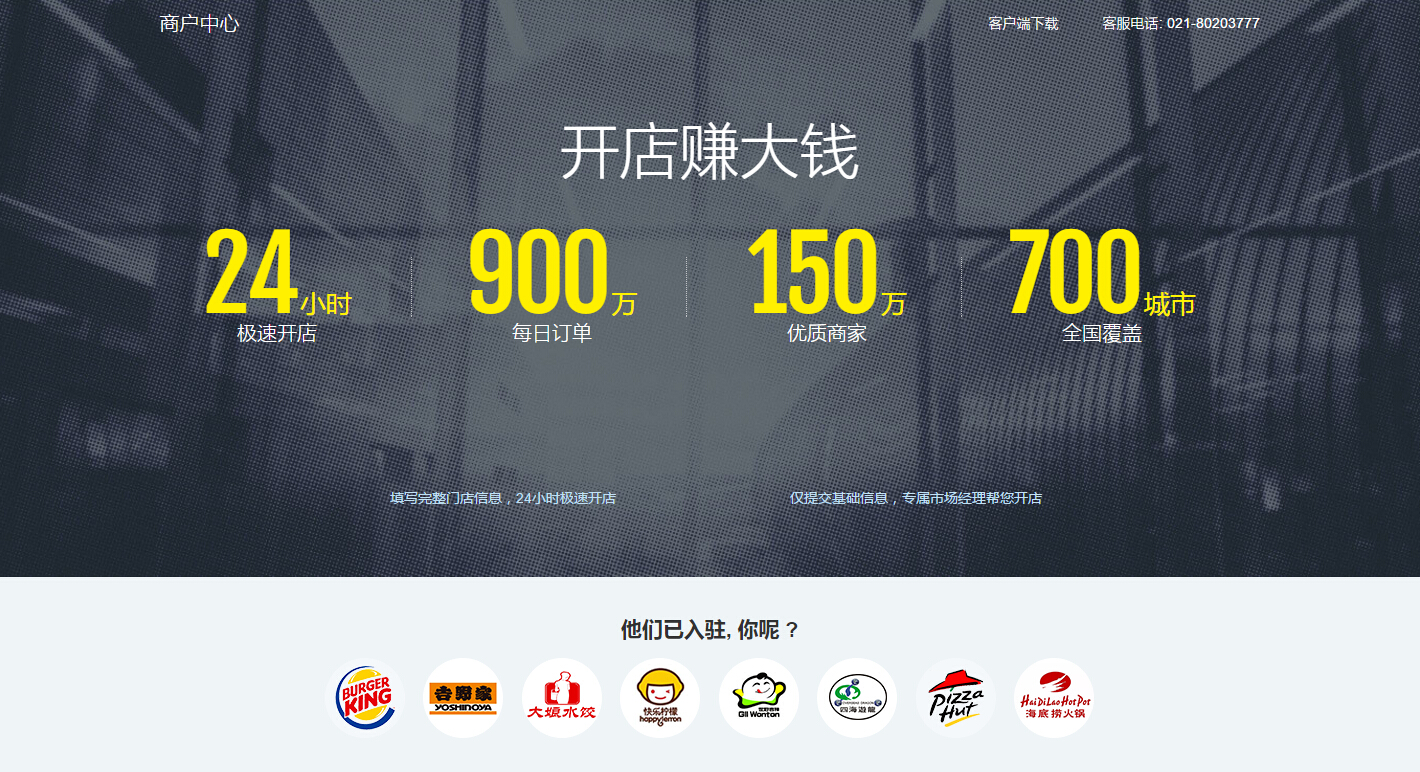
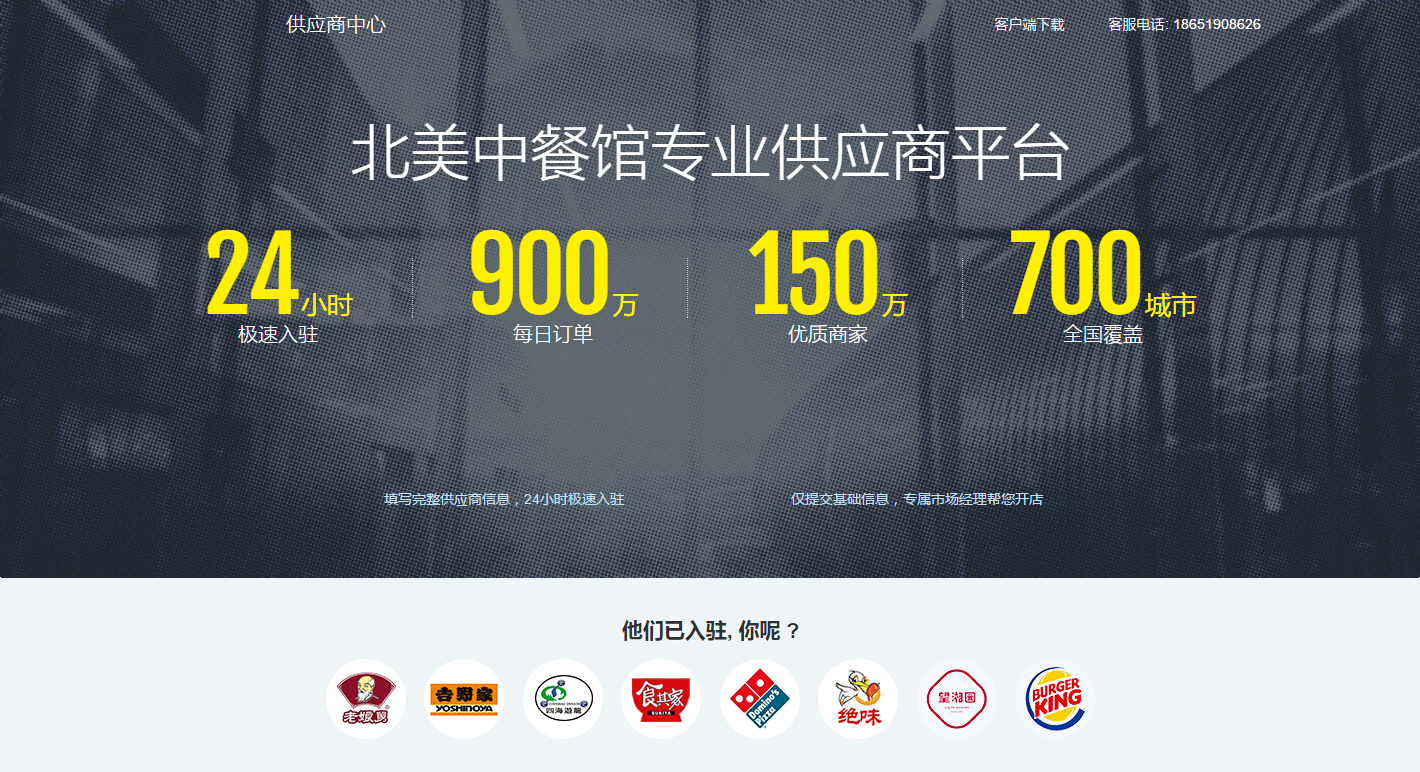
更新

diff --git a/SupplierApply/src/components/component/store/store1.vue b/SupplierApply/src/components/component/store/store1.vue
@@ -1,21 +1,21 @@
 <template>
   <el-form :model="ruleForm" :rules="rules" ref="ruleForm" label-width="150px" class="demo-ruleForm">
-    <el-form-item label="门店绑定手机号：">
+    <el-form-item label="供应商绑定手机号：">
       18651908626
     </el-form-item>
-    <el-form-item label="门店名称" prop="storename">
+    <el-form-item label="供应商名称" prop="storename">
       <el-input style="width:350px;" v-model="ruleForm.storename"></el-input>
     </el-form-item>
-    <el-form-item label="外卖电话" prop="phone">
+    <el-form-item label="电话" prop="phone">
       <el-input style="width:220px;" v-model="ruleForm.phone"></el-input>
     </el-form-item>
     <el-form-item label="联系人名称" prop="name">
       <el-input style="width:220px;" v-model="ruleForm.name"></el-input>
     </el-form-item>
-    <el-form-item label="门店分类" prop="storetype">
-      <el-select v-model="ruleForm.storetype" placeholder="请选择活动区域">
-        <el-option label="区域一" value="shanghai"></el-option>
-        <el-option label="区域二" value="beijing"></el-option>
+    <el-form-item label="供应商分类" prop="storetype">
+      <el-select v-model="ruleForm.storetype" placeholder="请选择供应商分类">
+        <el-option label="生鲜" value="shanghai"></el-option>
+        <el-option label="调料" value="beijing"></el-option>
       </el-select>
     </el-form-item>
     <el-form-item label="营业时间" prop="time">
@@ -34,7 +34,7 @@
         <img src="../../../assets/store_map.jpg" alt="">
       </div>
     </el-form-item>
-    <el-form-item label="门店照片" prop="storepic">
+    <el-form-item label="供应商照片" prop="storepic">
       <div>
         <div class="storepic">
           <img src="../../../assets/store_pic.jpg" alt="">
@@ -50,7 +50,7 @@
         </div>
       </div>
     </el-form-item>
-    <el-form-item label="门店Logo" prop="storelogo">
+    <el-form-item label="供应商Logo" prop="storelogo">
       <div>
         <div>
           <img src="../../../assets/store_logo.jpg" alt="">
@@ -79,7 +79,7 @@
         },
         rules: {
           storename: [
-            { required: true, message: '请输入门店名称', trigger: 'blur' },
+            { required: true, message: '请输入供应商名称', trigger: 'blur' },
             { min: 2, max: 20, message: '长度在 2 到 20 个字符', trigger: 'blur' }
           ],
           phone: [
@@ -103,10 +103,10 @@
             { required: true, message: '请输入详细地址', trigger: 'change' }
           ],
           storepic: [
-            { required: true, message: '请上传门店照片', trigger: 'change' }
+            { required: true, message: '请上传供应商照片', trigger: 'change' }
           ],
           storelogo: [
-            { required: true, message: '请上传门店Logo', trigger: 'change' }
+            { required: true, message: '请上传供应商Logo', trigger: 'change' }
           ]
         }
       };

diff --git a/SupplierApply/src/components/Store-guid.vue b/SupplierApply/src/components/Store-guid.vue
@@ -3,7 +3,7 @@
     <el-row class="header">
       <div class="content">
         <el-col :span="20" class="txt">
-        开店申请
+        入驻供应商平台申请
         </el-col>
         <el-col :span="4" class="userinfo">
           <el-dropdown trigger="click">
@@ -17,14 +17,14 @@
       </div>
     </el-row>
     <div class="breadcrumb">
-      请准备号以下材料，申请开店更方便
+      请准备号以下材料，申请入驻更方便
     </div>
     <div class="content">
     	<el-card class="box-card">
       <img src="../assets/store_guid.jpg" alt="">
       </el-card>
       <div class="btn-box" >
-        <el-button class="btn-next" type="primary" @click="next">我已经准备好资料，进行开店申请</el-button>
+        <el-button class="btn-next" type="primary" @click="next">我已经准备好资料，进行入驻供应商平台申请</el-button>
       </div>
     </div>
   </div>
@@ -140,7 +140,7 @@
       }
       .btn-next {
         height: 50px;
-        width: 318px;
+        width: 350px;
         font-size:16px;
       }
     }

diff --git a/SupplierApply/src/components/Store-apply.vue b/SupplierApply/src/components/Store-apply.vue
@@ -3,7 +3,7 @@
     <el-row class="header">
       <div class="content">
         <el-col :span="20" class="txt">
-        开店申请
+        入驻供应商平台申请
         </el-col>
         <el-col :span="4" class="userinfo">
           <el-dropdown trigger="click">
@@ -22,7 +22,7 @@
     	:active="active" 
     	:center="true"
     	finish-status="success">
-		  <el-step title="门店信息"></el-step>
+		  <el-step title="供应商信息"></el-step>
 		  <el-step title="资质信息"></el-step>
 		  <el-step title="合作方案"></el-step>
 		  <el-step title="配送方案"></el-step>
@@ -92,7 +92,7 @@ const componentsArr = [
       },
       next() {
         if (this.active === 5) {
-          this.btn_name="提交并申请开店"
+          this.btn_name="提交并申请入驻供应商平台"
         }
         if (++this.active >= 7) {
           this.$router.push('/recordlist');

diff --git a/SupplierApply/src/components/component/record/record-complete.vue b/SupplierApply/src/components/component/record/record-complete.vue
@@ -4,7 +4,7 @@
     border
     style="width: 100%">
     <el-table-column
-      label="门店名称"
+      label="供应商名称"
       width="150">
       <template scope="scope">
         <span style="margin-left: 10px">{{ scope.row.m_name }}</span>
@@ -23,7 +23,7 @@
       <template scope="scope">
         <el-popover trigger="hover" placement="top">
           <p>姓名: {{ scope.row.name }}</p>
-          <p>门店地址: {{ scope.row.address }}</p>
+          <p>供应商地址: {{ scope.row.address }}</p>
           <div slot="reference" class="name-wrapper">
             <el-tag>{{ scope.row.name }}</el-tag>
           </div>
@@ -70,7 +70,7 @@
     data() {
       return {
         tableData: [{
-          m_name: '茶壶店',
+          m_name: '生鲜食材',
           id: '10468',
           name: '程浩',
           phone: '18651908626',

diff --git a/SupplierApply/src/components/component/record/record-modify.vue b/SupplierApply/src/components/component/record/record-modify.vue
@@ -4,7 +4,7 @@
     border
     style="width: 100%">
     <el-table-column
-      label="门店名称"
+      label="供应商名称"
       width="150">
       <template scope="scope">
         <span style="margin-left: 10px">{{ scope.row.m_name }}</span>
@@ -23,7 +23,7 @@
       <template scope="scope">
         <el-popover trigger="hover" placement="top">
           <p>姓名: {{ scope.row.name }}</p>
-          <p>门店地址: {{ scope.row.address }}</p>
+          <p>供应商地址: {{ scope.row.address }}</p>
           <div slot="reference" class="name-wrapper">
             <el-tag>{{ scope.row.name }}</el-tag>
           </div>
@@ -70,7 +70,7 @@
     data() {
       return {
         tableData: [{
-          m_name: '茶壶店',
+          m_name: '生鲜食材',
           id: '10468',
           name: '程浩',
           phone: '18651908626',

diff --git a/SupplierApply/src/components/component/record/record-pass.vue b/SupplierApply/src/components/component/record/record-pass.vue
@@ -4,7 +4,7 @@
     border
     style="width: 100%">
     <el-table-column
-      label="门店名称"
+      label="供应商名称"
       width="150">
       <template scope="scope">
         <span style="margin-left: 10px">{{ scope.row.m_name }}</span>
@@ -23,7 +23,7 @@
       <template scope="scope">
         <el-popover trigger="hover" placement="top">
           <p>姓名: {{ scope.row.name }}</p>
-          <p>门店地址: {{ scope.row.address }}</p>
+          <p>供应商地址: {{ scope.row.address }}</p>
           <div slot="reference" class="name-wrapper">
             <el-tag>{{ scope.row.name }}</el-tag>
           </div>
@@ -70,7 +70,7 @@
     data() {
       return {
         tableData: [{
-          m_name: '茶壶店',
+          m_name: '生鲜食材',
           id: '10468',
           name: '程浩',
           phone: '18651908626',

diff --git a/SupplierApply/src/components/Index.vue b/SupplierApply/src/components/Index.vue
@@ -2,8 +2,8 @@
   <div>
     <img src="../assets/bg.jpg" alt="">
     <div class="page_info">
-        <el-button class="kd" type="primary" @click="dialogFormVisible = true">自助开店</el-button>
-        <el-button class="bwkd" type="primary" @click="dialogFormVisible = true">帮我开店</el-button>
+        <el-button class="kd" type="primary" @click="dialogFormVisible = true">自助入驻</el-button>
+        <el-button class="bwkd" type="primary" @click="dialogFormVisible = true">帮我入驻</el-button>
     </div>
     <el-dialog title="申请入驻" :visible.sync="dialogFormVisible" size="tiny">
         <el-form :model="ruleForm2" :rules="rules2" ref="ruleForm2" label-position="left" label-width="0px" class="demo-ruleForm login-container">

diff --git a/SupplierApply/src/components/Record-list.vue b/SupplierApply/src/components/Record-list.vue
@@ -3,7 +3,7 @@
     <el-row class="header">
       <div class="content">
         <el-col :span="20" class="txt">
-        开店申请
+        入驻供应商平台申请
         </el-col>
         <el-col :span="4" class="userinfo">
           <el-dropdown trigger="click">
@@ -24,7 +24,7 @@
     </div>
     <div class="content">
       <el-card class="box-card">
-        <el-button class="sqkd" type="primary" @click="openstore">申请开店</el-button>
+        <el-button class="sqkd" type="primary" @click="openstore">申请入驻供应商平台</el-button>
         <el-tabs v-model="activeName" @tab-click="handleClick">
           <el-tab-pane label="已通过" name="first">
             <recordpass />

diff --git a/SupplierApply/src/components/component/record/record-check.vue b/SupplierApply/src/components/component/record/record-check.vue
@@ -4,7 +4,7 @@
     border
     style="width: 100%">
     <el-table-column
-      label="门店名称"
+      label="供应商名称"
       width="150">
       <template scope="scope">
         <span style="margin-left: 10px">{{ scope.row.m_name }}</span>
@@ -70,7 +70,7 @@
     data() {
       return {
         tableData: [{
-          m_name: '茶壶店',
+          m_name: '生鲜食材',
           id: '10468',
           name: '程浩',
           phone: '18651908626',
